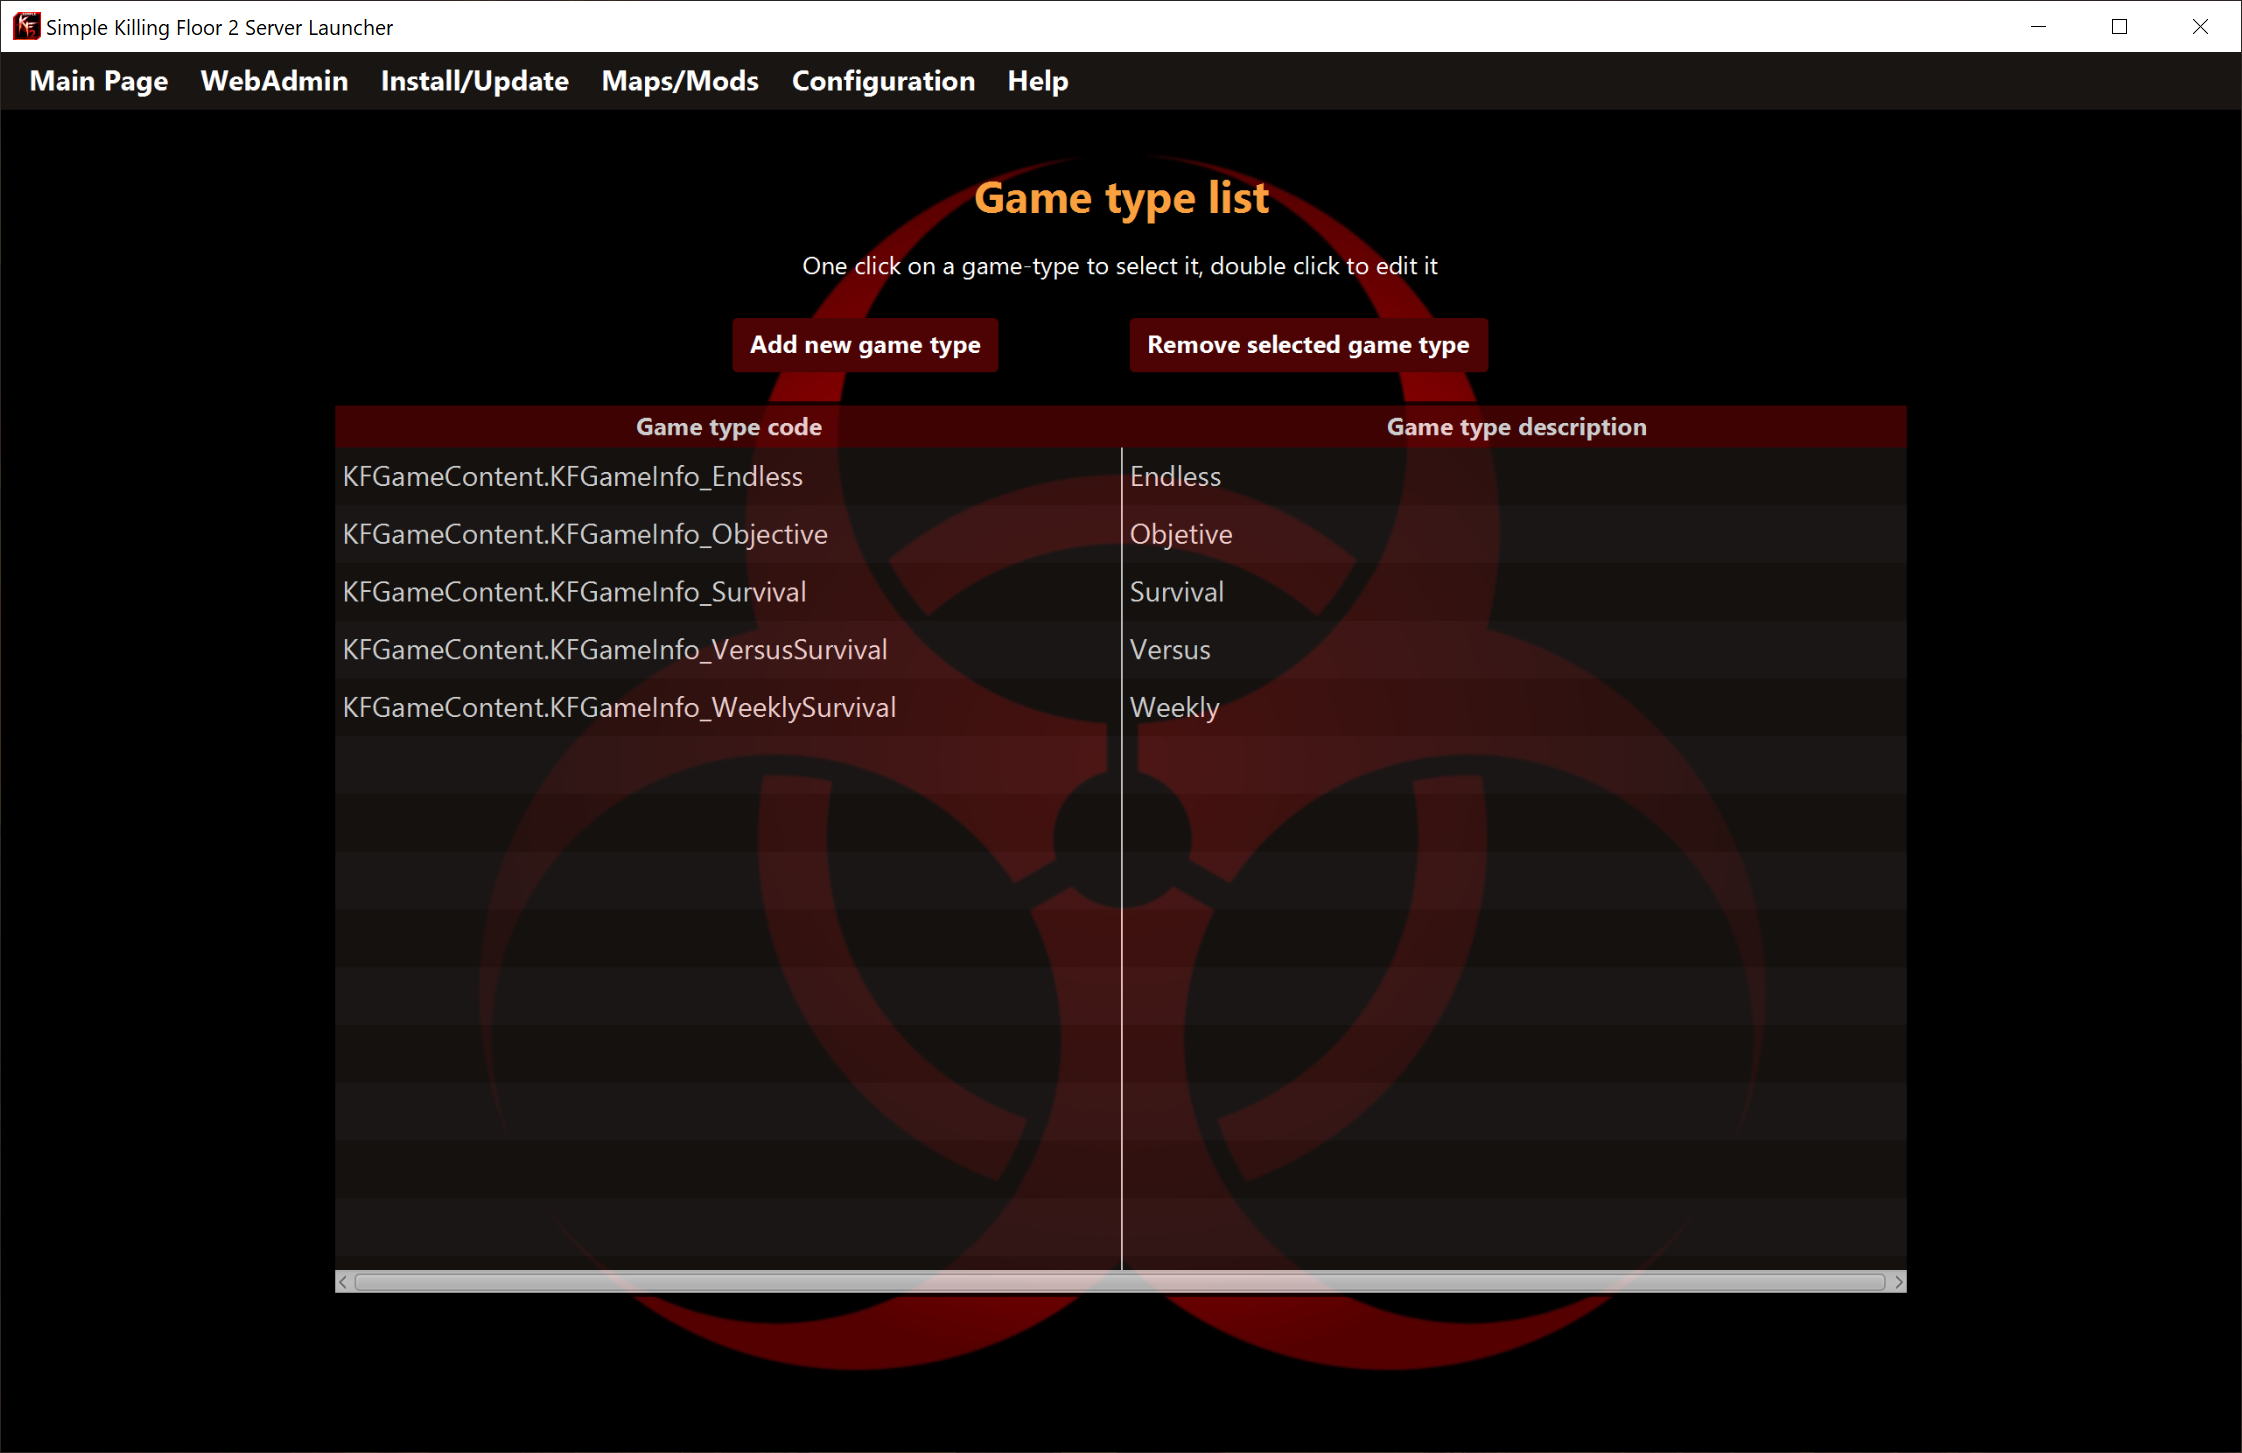
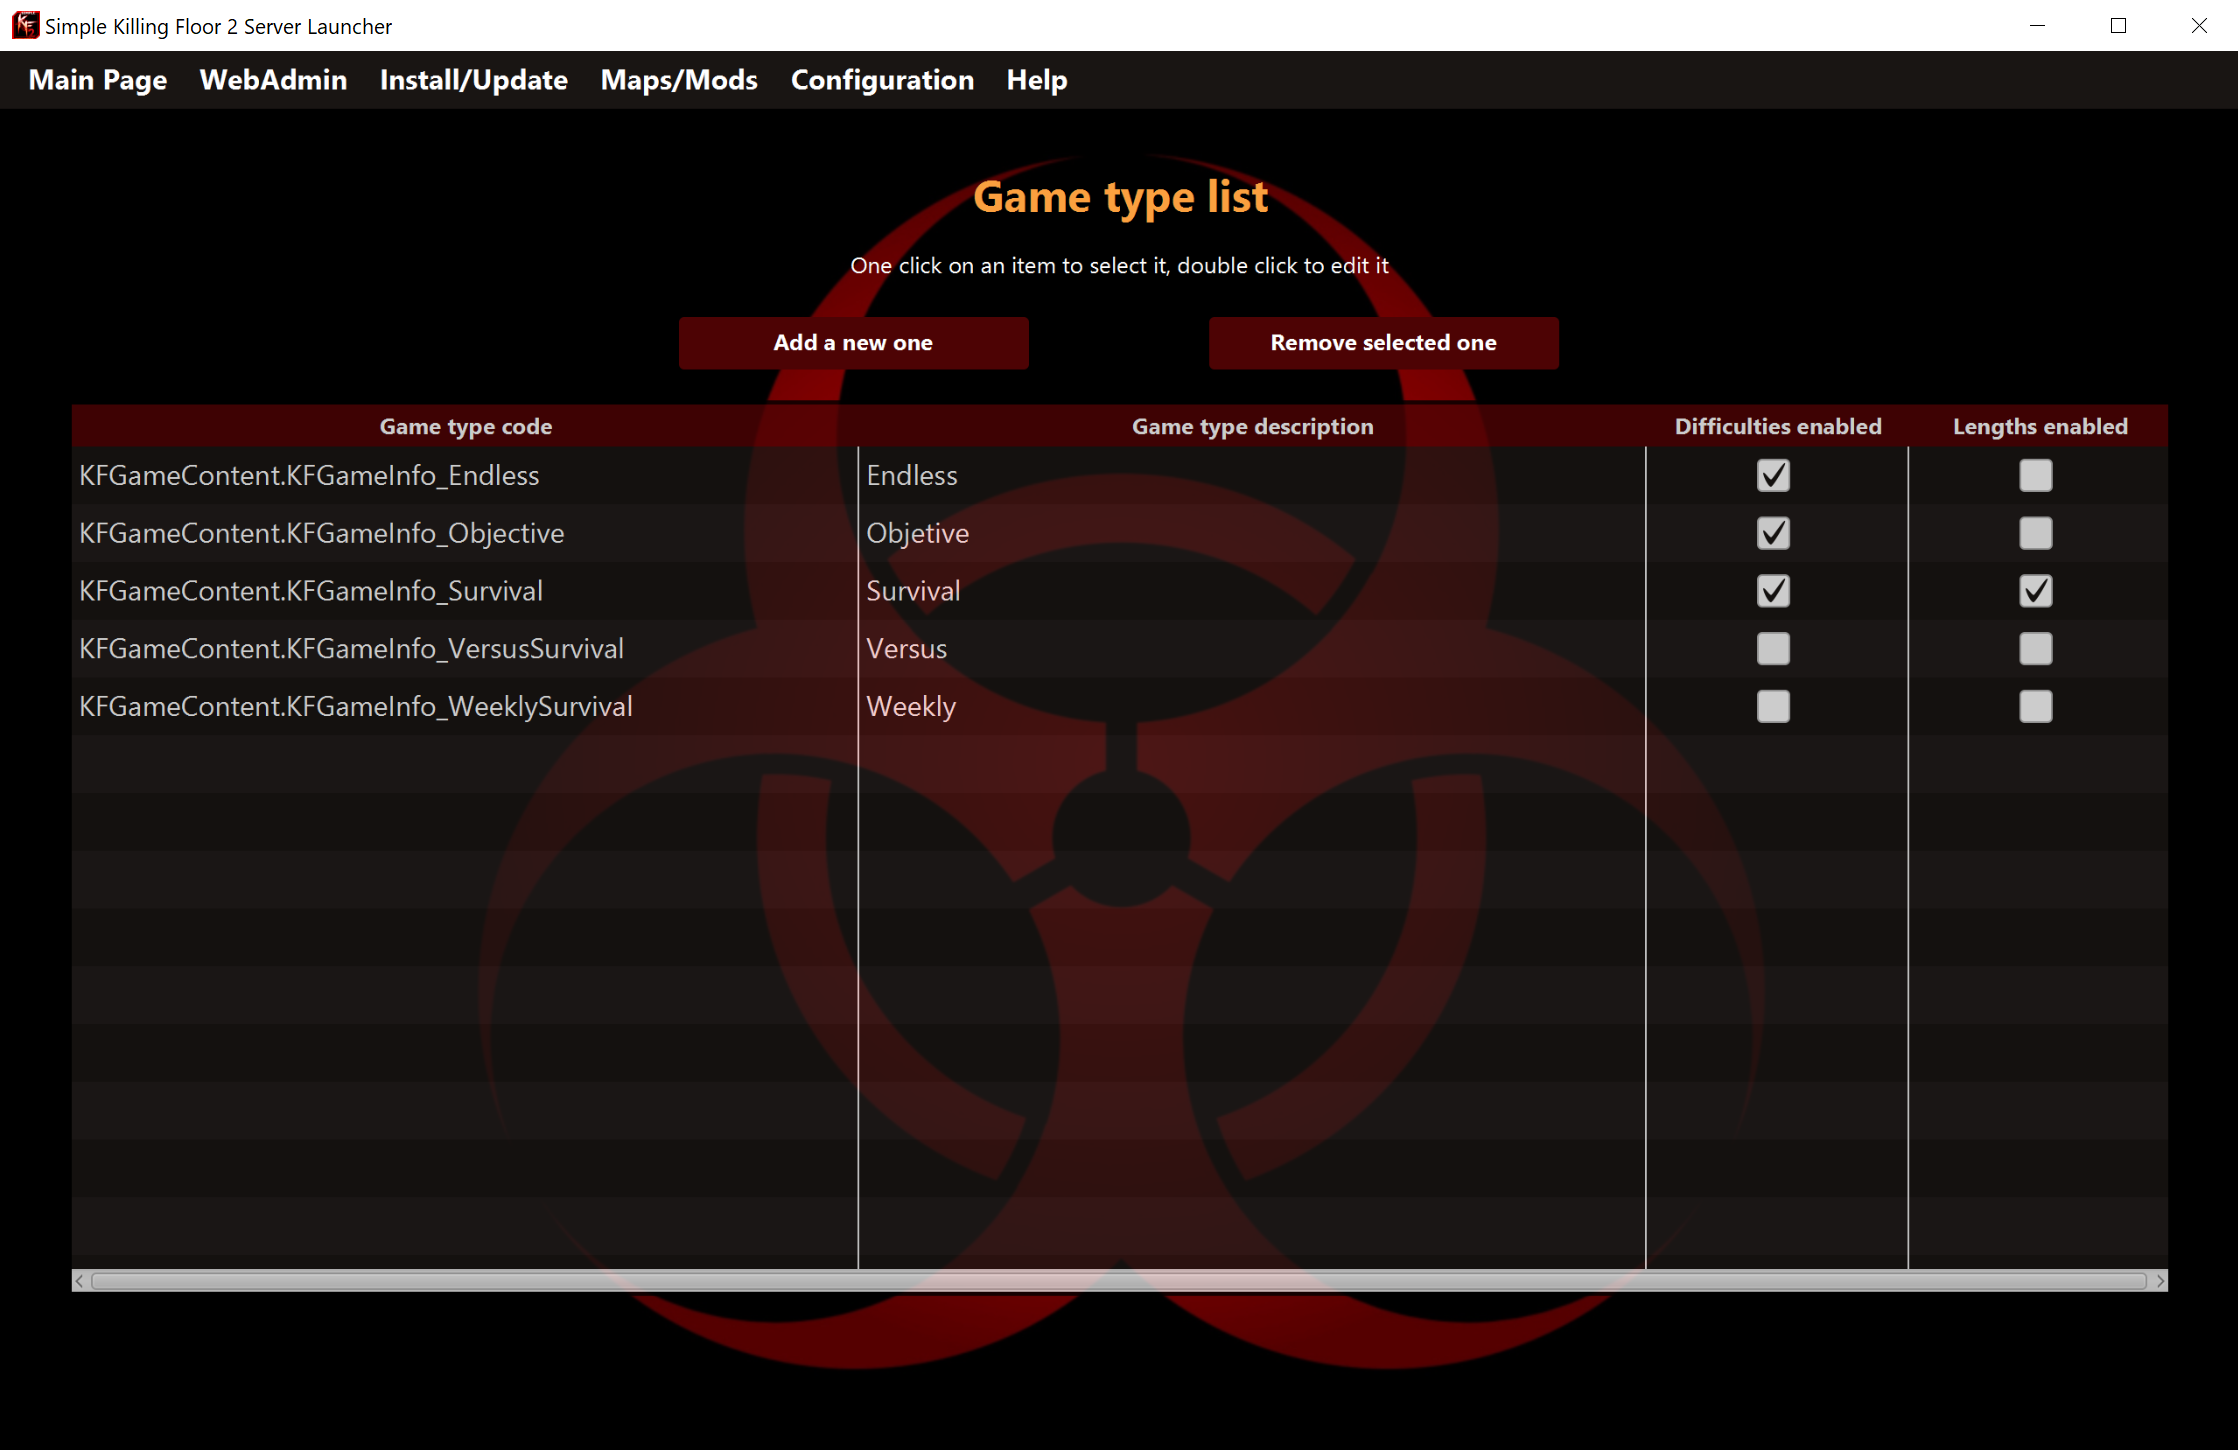
Updates in documentation

diff --git a/README.md b/README.md
@@ -1,5 +1,8 @@
 ![Logo](src/main/resources/images/documentation/kf2banner.png)
 
+_Documentation in spanish [here](LEEME.md) (Documentación en español)_
+
+---
 Application to easily customize and launch a Killing Floor 2 server through a visual interface instead of edditing batch files or server's config files. It has been developed with Java, so the interface is compatible on Windows and Linux OS.
 
 *Example of configuration*
@@ -13,39 +16,43 @@ Application to easily customize and launch a Killing Floor 2 server through a vi
 ### Index
 > 1. [Features](#features)
 > 2. [Pre-requisites](#pre-requisites)
-> 3. [Installing and running the launcher](#installing-and-running-the-launcher)
+> 3. [Install and run the launcher](#install-and-run-the-launcher)
 >   - [On Windows OS](#on-windows-os)
 >   - [On Linux OS](#on-linux-os)
 > 4. [Quick view](#quick-view)
 >   - [Main page](#main-page)
 >   - [WebAdmin page](#webadmin-page)
 >   - [Install or update page](#install-or-update-page)
->   - [Maps page](#maps-page)
+>   - [Maps and Mods page](#maps-and-mods-page)
 >   - [Configuration-Profiles](#configuration-profiles)
 >   - [Configuration-Game types](#configuration-game-types)
 >   - [Configuration-Difficulties](#configuration-difficulties)
->   - [Configuration-Length](#configuration-length)
->   - [Configuration-Maximun players](#configuration-maximun-players)
-> 5. [Donation](#donation)
+>   - [Configuration-Lengths](#configuration-lengths)
+>   - [Configuration-Maximum players](#configuration-maximum-players)
+> 5. [Console parameters](#console-parameters)
+> 6. [Donation](#donation)
 
 ## Features
 
 ```
-Version: 2.0 beta
+Version: 2.0 release candidate
 Supported OS: Microsoft Windows and Linux (Ubuntu/Debian)
 Author: César Rodríguez González
-Language: English (Spanish soon)
+Languages: English, Spanish
 ```
 
 - Install/Update server to the latest official or beta version.
 - Launch the server with specified parameters by the user in launcher's main page.
 - Join the running server's match.
 - Open WebAdmin page to administrate the running server.
-- Add custom maps to the server through Steam's WorkShop.
-- Remove custom maps from the server.
-- Administrate profiles, game types, difficulties, lengths and maximun numer of players that can be selected to launch the server.
-- Import official and custom maps from the server to the launcher.
-- All those features are available through the launcher's interface on Windows and Linux OS (no need to use console commands at all).
+- Add custom maps and mods to the server through Steam's WorkShop.
+- Remove custom maps and mods from the server.
+- Administrate profiles, game types, difficulties, lengths and maximum number of players that can be selected to launch the server.
+- Import official maps, custom maps and mods from the server to the launcher.
+- Import profiles from file to the launcher.
+- Export profiles from the launcher to file.
+- Launch the server through console with no need of interaction with the interface.
+- All those features are available through the launcher's interface on Windows and Linux OS.
 
 ## Pre-requisites
 - Internet connection to download, update and publish a Killing Floor 2 server.
@@ -59,12 +66,12 @@ Language: English (Spanish soon)
   | Steam Port  | 20560    | UDP       |                                                                             |
   | NTP Port    | 123      | UDP       | Weekly Outbreak Only - Internet time lookup to determine correct Outbreak   |
 
-- Install Oracle JRE (Java Runtime Environment) in order to be able to execute the launcher. JRE can be downloaded from [here](https://www.java.com/en/download/).
+- Install Oracle JRE 8 (Java Runtime Environment) in order to be able to execute the launcher. JRE can be downloaded from [here](https://www.java.com/en/download/).
 
-## Installing and running the launcher
+## Install and run the launcher
 
 - Download the latest release of the program from [here](https://github.com/cesar-rgon/simple-kf2-server-launcher/releases)
-- Extract the contents of the zip file to a local folder.
+- Extract the content of the zip file to a local folder.
 
 ##### On Windows OS
 - Execute the file "SimpleKF2ServerLauncher.jar" just by double click over the file or, as an alternative method, type next commands in a terminal.
@@ -156,7 +163,7 @@ In this section you can install or update a Killing Floor 2 server.
 
 * _Beta brunch_: This field is optional. The user specifies the name of the beta brunch (only used when last check was enabled).
 
-#### Maps/Mods page
+#### Maps and Mods page
 In this section you can manage custom maps, mods and official maps present in the server.
 
 ![Launcher screenshot](src/main/resources/images/documentation/screenshot04.png)
@@ -193,9 +200,11 @@ In this section you can manage profiles to the launcher. Each profile is used to
 **NOTE**: No profile name duplication accepted in any operation.
 
 #### Configuration-Game types
-In this section you can add, edit or remove game types to the launcher. Each game type is composed by two fields:
+In this section you can add, edit or remove game types to the launcher. Each game type is composed by four fields:
 1. _Code_: Code to identify the game type mode. It's not a free text, it has to be exactly like described in the Killing Floor 2 server documentation.
 2. _Description_: Free text to identify the game type mode.
+3. _Difficulties enabled_: If difficulties combo is active or not.
+4. _Lengths enabled_: If lengths combo is active or not.
 
 ![Launcher screenshot](src/main/resources/images/documentation/screenshot07.png)
 
@@ -214,7 +223,7 @@ In this section you can add, edit or remove difficulties to the launcher. Each d
 * _Double click on a difficulty code or description_: It allows to edit the field.
 * _Remove selected difficulty_: It allows to remove the selected difficulty code and description.
 
-#### Configuration-Length
+#### Configuration-Lengths
 In this section you can add, edit or remove length modes to the launcher. Each length is composed by two fields:
 1. _Code_: Code to identify the length mode. It's not a free text, it has to be exactly like described in the Killing Floor 2 server documentation.
 2. _Description_: Free text to identify the length mode.
@@ -225,7 +234,7 @@ In this section you can add, edit or remove length modes to the launcher. Each l
 * _Double click on a length code or description_: It allows to edit the field.
 * _Remove selected length_: It allows to remove the selected length code and description.
 
-#### Configuration-Maximun players
+#### Configuration-Maximum players
 In this section you can add, edit or remove the max.players to the launcher. Each max.players is composed by two fields:
 1. _Code_: Code to identify the max.players. It's not a free text, it has to be exactly like described in the Killing Floor 2 server documentation.
 2. _Description_: Free text to identify the max.players.
@@ -235,6 +244,19 @@ In this section you can add, edit or remove the max.players to the launcher. Eac
 * _Add new max.players_: It allows to add a new max.players with no code duplicated.
 * _Double click on a max.players code or description_: It allows to edit the field.
 * _Remove selected max.players_: It allows to remove the selected max.players code and description.
+
+## Console parameters
+The launcher allows to execute servers through terminal parameters without user interaction with the interface.
+
+Accepted parameters are: *For example*
+```
+java -jar SimpleKF2ServerLauncher.jar --profiles profileName1 [profileName2 profileName3 ... ]
+```
+*NOTE: [ ] means that these parameters are optional*
+
+- This command executes one or multiple servers, one per profileName.
+- The profile names must be separated by whitespace.
+- The profile names must exist in launcher's database.
 
 ## Donation
 If you find useful this application, you liked it and you want to contribute, you can donate the amount you desire [here](https://www.paypal.me/cesarrgon).

diff --git a/LEEME.md b/LEEME.md
@@ -1,0 +1,147 @@
+![Logo](src/main/resources/images/documentation/kf2banner.png)
+
+_Documentation in english [here](README.md) (Documentación en inglés)_
+
+---
+( Elaborando el documento )
+
+---
+Aplicación para personalizar y lanzar fácilmente un servidor de Killing Floor 2 a través de una interfaz visual en lugar de editar ficheros batch o de configuración del servidor. Ha sido desarrollado en Java y la interfaz es compatible con los S.O. Windows y Linux.
+
+*Ejemplo de configuración*
+
+![Ejemplo de configuración](src/main/resources/images/documentation/screenshot00.png)
+
+*Resultado después de unirse al servidor mediante el cliente de juego*
+
+![In game](src/main/resources/images/documentation/screenshot-in-game.jpg)
+
+### Índice
+> 1. [Caracteristicas](#caracteristicas)
+> 2. [Pre-requisitos](#pre-requisitos)
+> 3. [Instalar y ejecutar el lanzador](#instalar-y-ejecutar-el-lanzador)
+>   - [En Windows](#en-windows)
+>   - [En Linux](#en-linux)
+> 4. [Vista rapida](#vista-rapida)
+>   - [Pagina principal](#pagina-principal)
+>   - [Pagina WebAdmin](#pagina-webadmin)
+>   - [Pagina instalar o actualizar](#pagina-instalar-o-actualizar)
+>   - [Pagina mapas y mods](#pagina-mapas-y-mods)
+>   - [Configuracion-Perfiles](#configuracion-perfiles)
+>   - [Configuracion-Tipos de juegos](#configuracion-tipos-de-juegos)
+>   - [Configuracion-Dificultades](#configuracion-dificultades)
+>   - [Configuracion-Longitudes](#configuracion-longitudes)
+>   - [Configuracion-Maximo jugadores](#configuracion-maximo-jugadores)
+> 5. [Parametros por consola](#parametros-por-consola)
+> 6. [Donacion](#donacion)
+
+## Caracteristicas
+
+```
+Versión: 2.0 release candidate
+S.O. soportados: Microsoft Windows y Linux (Ubuntu/Debian)
+Autor: César Rodríguez González
+Idiomas: Inglés, Español
+```
+
+- Instalar/actualizar el servidor a la última versión oficial o beta. 
+- Lanzar el servidor con los parámetros especificados por el usuario en la página principal del lanzador.
+- Unirse a la partida en curso del servidor.
+- Abrir la página WebAdmin para administrar el servidor en ejecución.
+- Añadir mapas personalizados y mods al servidor mediante el WorkShop de Steam.
+- Eliminar mapas personalizados y mods del servidor.
+- Administrar perfiles, tipos de juegos, dificultades, longitudes y máximo número de jugadores que pueden ser seleccionados para lanzar el servidor.
+- Importar mapas oficiales, mapas personalizados y mods del servidor al lanzador.
+- Importar perfiles de fichero al lanzador.
+- Exportar perfiles del lanzador a fichero.
+- Lanzar el servidor a través de consola sin necesidad de interación con la interfaz.
+- Todas estas características están disponibles a través de la interfaz del lanzador en Windows y Linux.
+
+## Pre-requisitos
+- Conexión a internet para descargar, actualizar y publicar un servidor de Killing Floor 2.
+- Abrir los puertos necesarios en el router y firewall si quieres que el servidor sea visible en internet.
+
+  | Puerto      | Por defecto | Protocolo  | Qué controla esta opción                                                                  |
+  |-------------|-------------|------------|-------------------------------------------------------------------------------------------|
+  | Game Port   | 7777        | UDP        | Este es el puerto principal por donde envía conexiones el juego                           |
+  | Query Port  | 27015       | UDP        | Este es el puerto usado para comunicarse con el Servidor Maestro de Steam                 |
+  | Web Admin   | 8080        | TCP        | Este puerto se usa para conectarse a la página WebAdmin del servidor (si fué habilitada)  |
+  | Steam Port  | 20560       | UDP        |                                                                                           |
+  | NTP Port    | 123         | UDP        | Semanal solamente - Usado para determinar el evento semanal correctamente                 |
+
+- Instalar Oracle JRE 8 (Java Runtime Environment) para poder ejecutar el lanzador. JRE puede ser descargado de [aquí](https://www.java.com/es/download/).
+
+## Instalar y ejecutar el lanzador
+- Descargar la última versión del programa desde [aquí](https://github.com/cesar-rgon/simple-kf2-server-launcher/releases)
+- Extraer el contenido del fichero zip a una carpeta local.
+
+##### En Windows
+- Ejecuta el fichero "SimpleKF2ServerLauncher.jar" haciendo doble click sobre el fichero, como método alternativo, escribe los siguientes comandos en una terminal.  
+
+*Ejemplo*
+```
+C:\> cd SimpleKF2ServerLauncher-local-folder
+C:\SimpleKF2ServerLauncher-local-folder> java -jar SimpleKF2ServerLauncher.jar
+```
+*NOTA: Reemplaza SimpleKF2ServerLauncher-local-folder por la carpeta local que quieras.*
+
+##### En Linux
+- Ejecuta el fichero "SimpleKF2ServerLauncher.jar" con los siguientes comandos en una terminal:
+
+*Ejemplo*
+```
+$ cd SimpleKF2ServerLauncher-local-folder
+$ java -jar SimpleKF2ServerLauncher.jar
+```
+*NOTA: Reemplaza SimpleKF2ServerLauncher-local-folder por la carpeta local que quieras.*
+
+*NOTA: JRE debe ser la versión de Oracle (no OpenJDK disponible en los repositorios).*
+
+## Vista rapida
+
+#### Pagina principal
+![Launcher screenshot](src/main/resources/images/documentation/screenshot01.png)
+
+
+#### Pagina WebAdmin
+![Launcher screenshot](src/main/resources/images/documentation/screenshot02.png)
+
+
+#### Pagina instalar o actualizar
+![Launcher screenshot](src/main/resources/images/documentation/screenshot03.png)
+
+#### Pagina Mapas y Mods
+![Launcher screenshot](src/main/resources/images/documentation/screenshot04.png)
+
+![Launcher screenshot](src/main/resources/images/documentation/screenshot05.png)
+
+
+#### Configuracion-Perfiles
+![Launcher screenshot](src/main/resources/images/documentation/screenshot06.png)
+
+
+#### Configuracion-Tipos de juegos
+![Launcher screenshot](src/main/resources/images/documentation/screenshot07.png)
+
+
+#### Configuracion-Dificultades
+![Launcher screenshot](src/main/resources/images/documentation/screenshot08.png)
+
+
+#### Configuracion-Longitudes
+![Launcher screenshot](src/main/resources/images/documentation/screenshot09.png)
+
+
+#### Configuracion-Maximo jugadores
+![Launcher screenshot](src/main/resources/images/documentation/screenshot10.png)
+
+
+## Parametros por consola
+
+
+## Donacion
+Si encontraste útil esta aplicación, te gustó y quieres contribuir, puedes donar la cantidad que estimes [aquí](https://www.paypal.me/cesarrgon).
+
+![Paypal logo](src/main/resources/images/documentation/paypal-logo.png)
+
+¡Muchas gracias!
